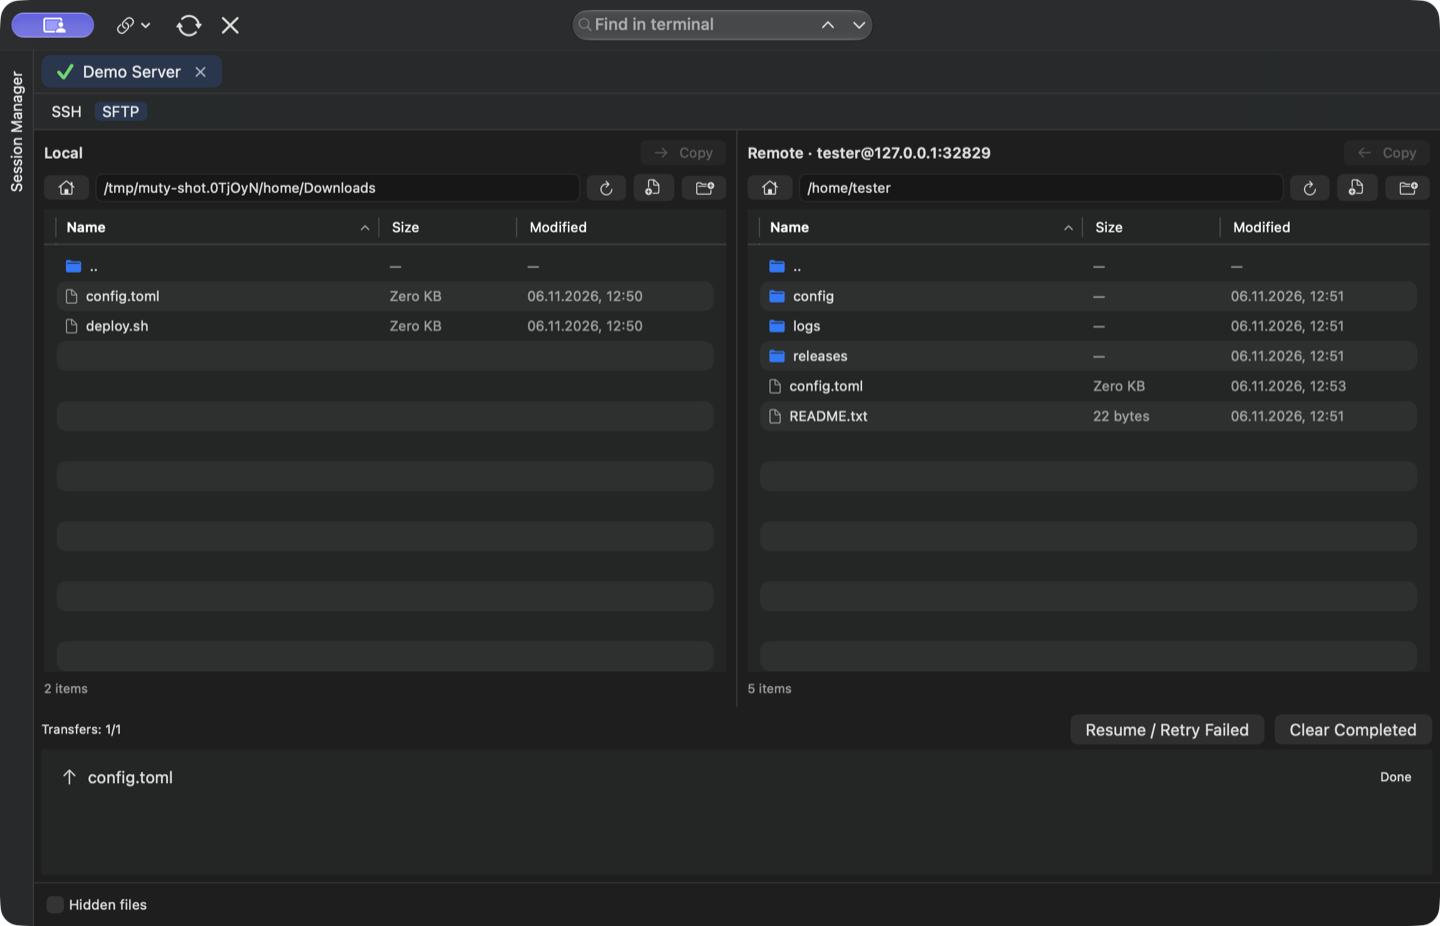
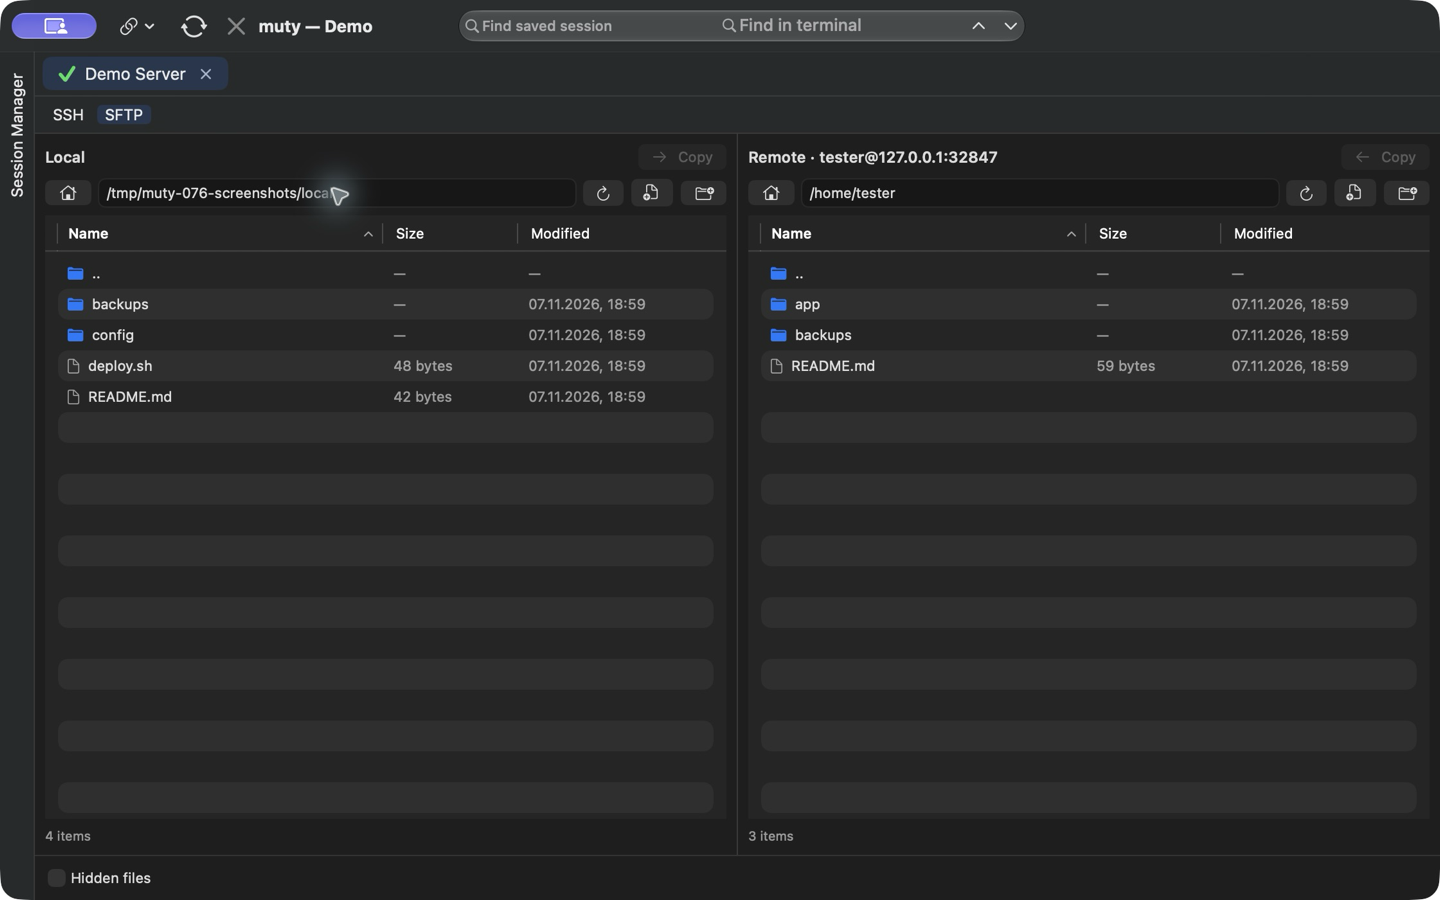
Refresh README screenshots for 0.7.6

diff --git a/README.md b/README.md
@@ -11,13 +11,13 @@ Native SSH and SFTP client for macOS. Built with SwiftUI and SwiftTerm, powered 
 - SecureCRT and MobaXterm session import.
 - Local credential vault and encrypted backups.
 
-![muty connected to a demo SSH server, showing two-pane SFTP and a completed upload](docs/screenshot.png)
-
-*Screenshots show an earlier release.*
+![Two-pane SFTP browser connected to a disposable demo server](docs/screenshot.png)
 
 ## Sessions and remote files
 
 Use **Find saved session** next to the terminal search field to find saved sessions by name or host address. Choose a suggestion with the arrow keys and press Enter, or click it, to open a new connection. Folder names are shown for context but are not included in the search. The Session Manager uses the same search rules.
+
+![Saved-session search suggestions alongside terminal search](docs/session-search.png)
 
 Remote files open as tabs in one editor window per SFTP session. Long lines wrap to fit the window; Tab inserts spaces in YAML files. Escape closes the current editor or viewer tab, with a confirmation for unsaved changes. If a file has changed on the server, saving is refused and your unsaved text stays in the open tab.
 
